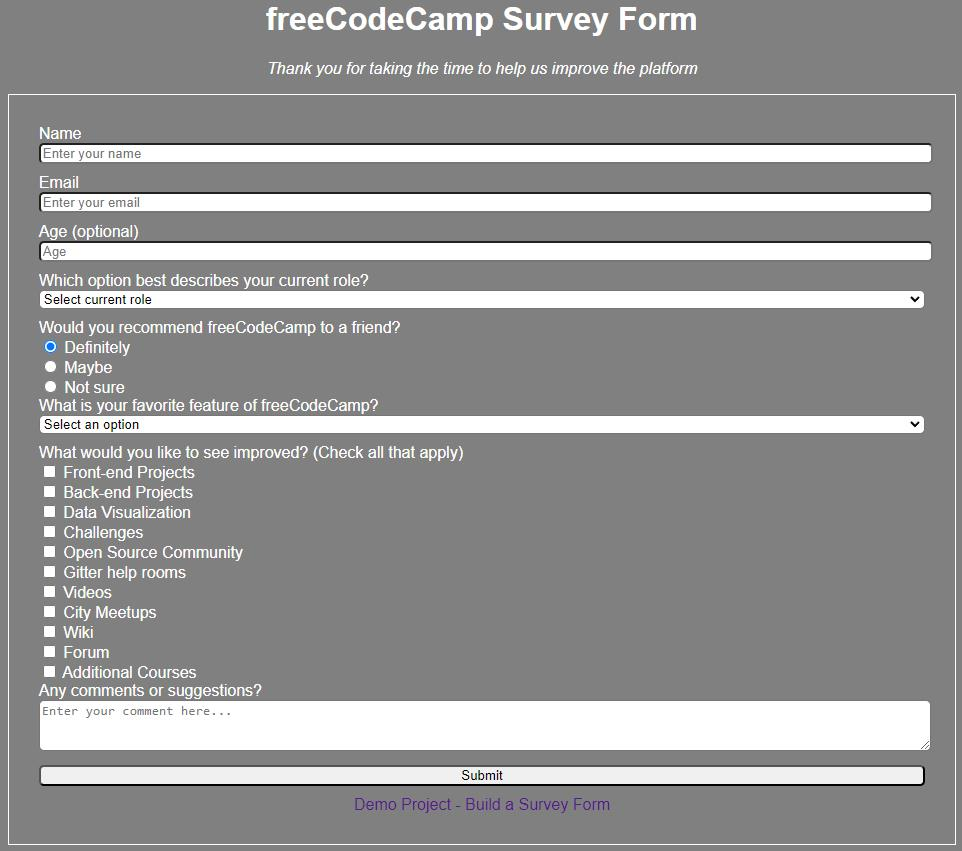
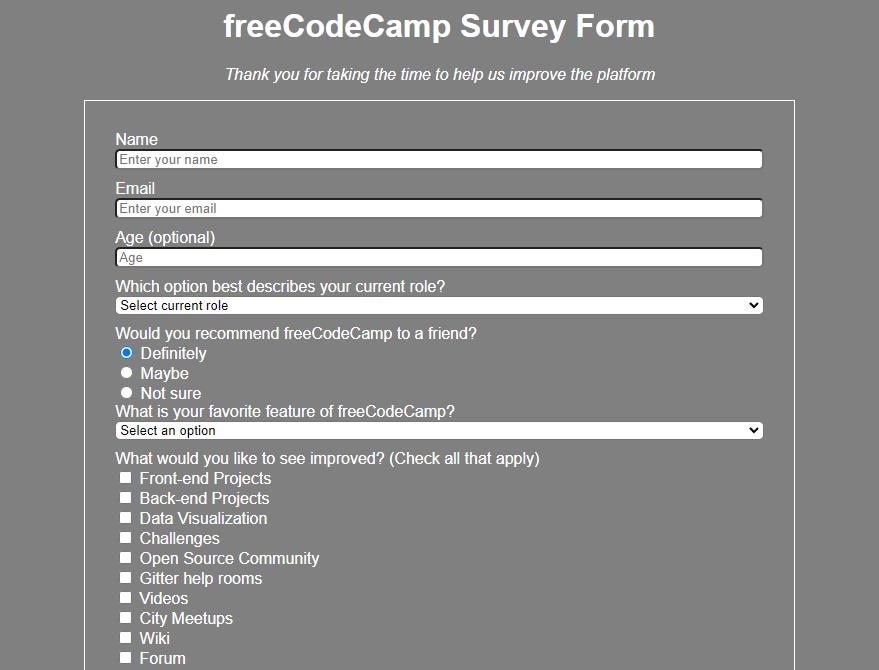
Updated project and added some files

diff --git a/freeCodeCamp Project/Build-a-Product-Landing-Page.css b/freeCodeCamp Project/Build-a-Product-Landing-Page.css
@@ -1,13 +1,12 @@
-@media only screen and (max-width: 800px){
-    body {width: 95%;}
-}
-body {font-family: Arial, Helvetica, sans-serif;}
-#header {width: 100%; position: fixed; top: 0; left: 0; border: solid 1px black;}
-#header-img {width: 20%; float: inline-start;}
-#nav-bar {display: flex; margin-left: 10px;}
-.nav-link {margin-right: 10%; margin-top: 0.8%; text-decoration: none; color: black;}
+* {box-sizing: border-box;}
 
-#form {text-align: center; margin-top: 8%;}
+body {font-family: Arial, Helvetica, sans-serif;}
+#header {width: 100%; position: fixed; top: 0; left: 0; padding: 20px; z-index: 2; background-color: white;}
+#header-img {max-width: 300px; float: left;}
+#nav-bar {float: right; margin-left: 10px;}
+.nav-link {text-decoration: none; color: black; margin: 0 20px;}
+
+#form {text-align: center; margin-top: 100px;}
 #submit{padding: 5px 10px; margin: 10px; font-weight: bolder; background-color: orange; }
 
 #Features {width: 55%; margin: auto; border: 1px solid black;}
@@ -32,3 +31,16 @@ footer > div {display: flex; flex-flow: row;}
 footer > div > a {display: block; position: relative; right: 0;}
 
 #demo {display: block; text-align: center;}
+
+@media only screen and (max-width: 800px){
+  .header{position: relative;}
+  #header-img {display: block; max-width: 100%; margin: auto;}
+  #nav-bar {display: flex; flex-direction: column; text-align: center; align-items: center; width: 100%;}
+
+  #form {margin-top: 180px;}
+
+  #Pricing {width: 55%; margin: auto; display: grid; grid-template-columns: auto; column-gap: 1em;}
+
+  footer {width: 55%; margin: 20px auto; padding: 10px 0; border: 1px solid black; background-color: lightgrey; text-align: center;}
+  footer > div > a {display: block; text-align: center;}
+}

diff --git a/freeCodeCamp Project/Build-a-Personal-Portfolio-Webpage.html b/freeCodeCamp Project/Build-a-Personal-Portfolio-Webpage.html
@@ -25,8 +25,8 @@
         <a href="Build-a Survey-Form.html" target="_blank"><img id="project1" src="Project-1.JPG" alt="My survey form project"></a>
         <a href="Build-a-Tribute-Page.html" target="_blank"><img id="project2" src="Project-2.JPG" alt="My survey form project"></a>
         <a href="Build-a-Technical-Documentation-Page.html" target="_blank"><img id="project3" src="Project-3.JPG" alt="My survey form project"></a>
-        <a href="Build-a-Product-Landing-Page.html" target="_blank"><img id="project4" src="https://t3.ftcdn.net/jpg/05/67/74/88/360_F_567748875_IpZmOy1dWLTY0ni0J7KQLrWg9hBHCs15.jpg" alt="My survey form project"></a>
-        <a href="#"><img id="project5" src="https://t3.ftcdn.net/jpg/05/67/74/88/360_F_567748875_IpZmOy1dWLTY0ni0J7KQLrWg9hBHCs15.jpg" alt="My survey form project"></a>
+        <a href="Build-a-Product-Landing-Page.html" target="_blank"><img id="project4" src="Project-4.JPG" alt="My survey form project"></a>
+        <a href="#"><img id="project5" src="Project-5.JPG" alt="My survey form project"></a>
       </div>
     </section>
     <section id="Contact">
